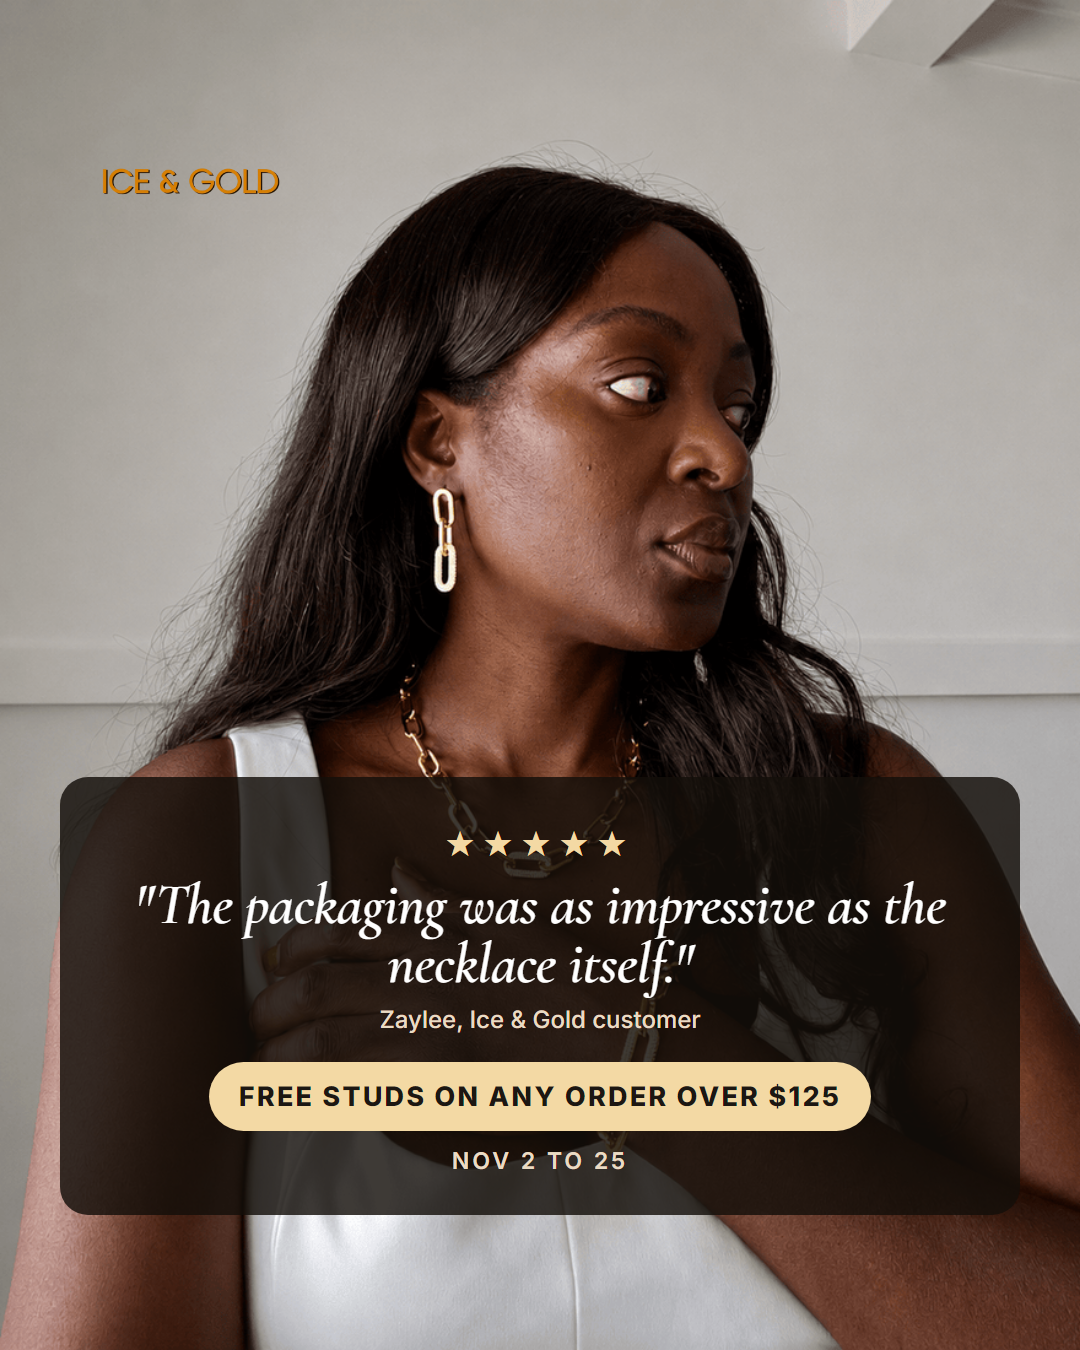
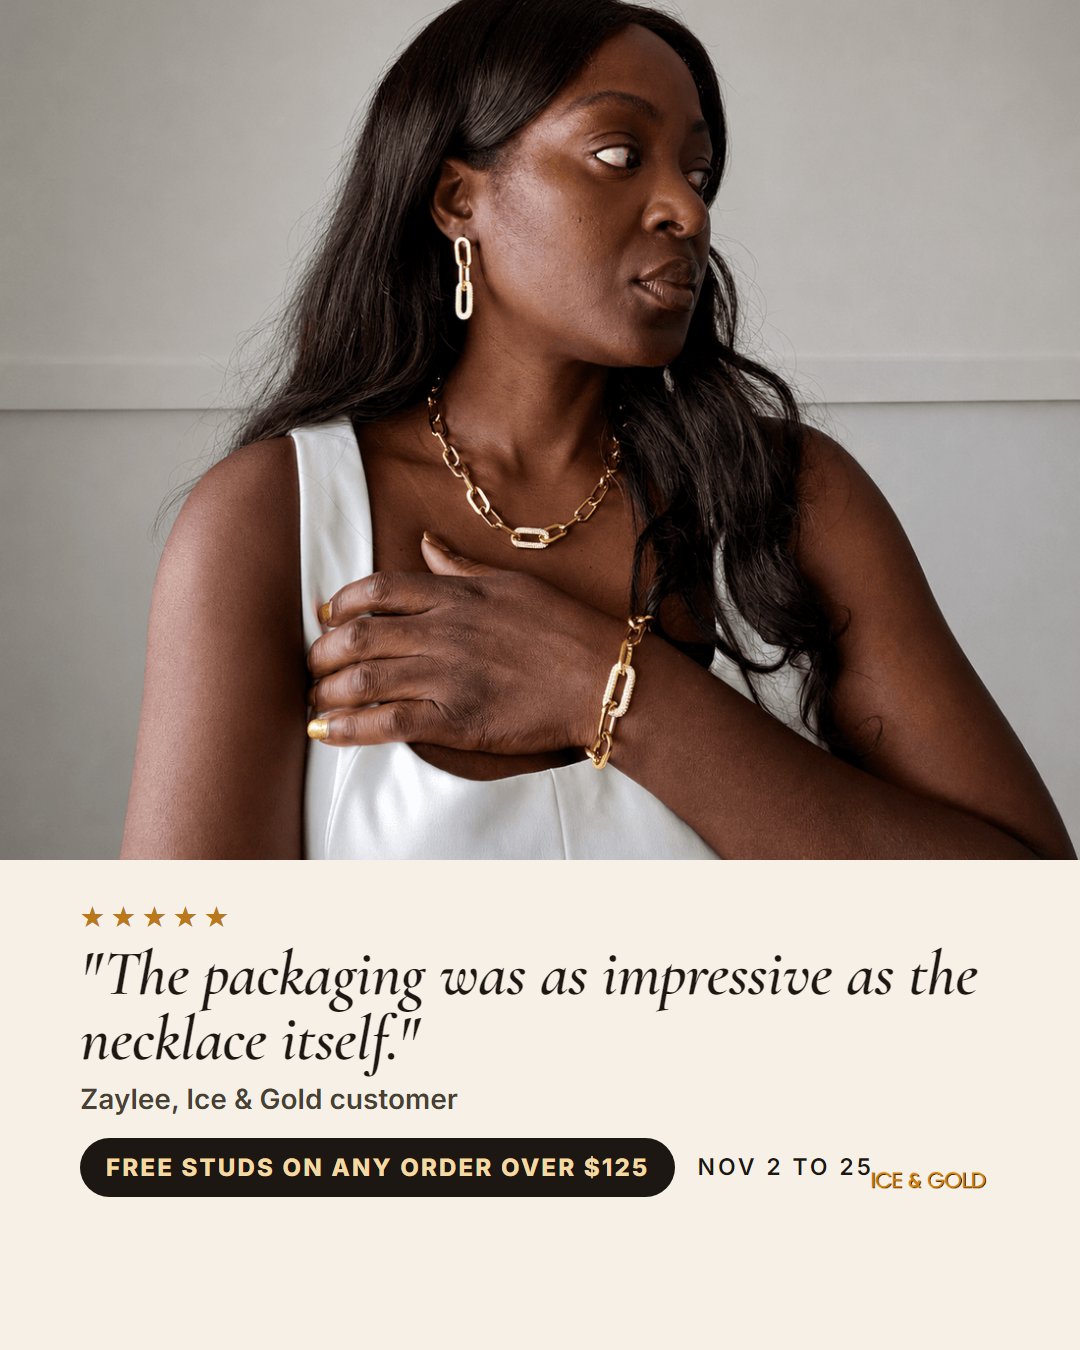
Ice & Gold Early Bird: words below the photo on 5 ads so no jewelry is covered; batch approved

diff --git a/docs/bfcm-ice-and-gold/ads/eb-07.html b/docs/bfcm-ice-and-gold/ads/eb-07.html
@@ -20,4 +20,4 @@ h1{font-family:'Cormorant Garamond',Georgia,serif;font-weight:600;line-height:1.
 .center{position:absolute;left:80px;right:80px;text-align:center}
 .prod{position:absolute;left:50%;transform:translateX(-50%);mix-blend-mode:multiply}
 .price{font-size:32px;font-weight:600;margin-top:14px;color:#4A3F33}
-</style></head><body style="--bg:#F6F0E6"><img class="bleed" src="assets/gold-link-set-3.png" style="object-position:50% 30%"><div class="band"><div style="font-size:36px;letter-spacing:8px;color:#F3D9A4">&#9733;&#9733;&#9733;&#9733;&#9733;</div><h1 style="font-size:58px;font-style:italic;margin-top:10px">"The packaging was as impressive as the necklace itself."</h1><div class="sub" style="font-size:24px">Zaylee, Ice &amp; Gold customer</div><div class="pill light">Free studs on any order over $125</div><div class="date" style="color:#EADBC4">Nov 2 to 25</div></div><img class="logo l" src="assets/logo.png"></body></html>
+</style></head><body style="--bg:#F6F0E6"><img src="assets/gold-link-set-3.png" style="position:absolute;top:0;left:0;width:1080px;height:860px;object-fit:cover;object-position:50% 70%"><div style="position:absolute;top:860px;left:0;right:0;bottom:0;background:#F6F0E6"></div><div style="position:absolute;top:895px;left:80px;right:80px"><div style="font-size:30px;letter-spacing:6px;color:#B9791A;margin-bottom:6px">&#9733;&#9733;&#9733;&#9733;&#9733;</div><h1 style="font-size:64px"><i>"The packaging was as impressive as the necklace itself."</i></h1><div class="price" style="font-size:28px;margin-top:10px">Zaylee, Ice &amp; Gold customer</div><div style="margin-top:22px;display:flex;align-items:center;gap:22px"><div class="pill" style="font-size:24px;padding:15px 26px">Free studs on any order over $125</div><div class="date" style="margin:0">Nov 2 to 25</div></div></div><img src="assets/logo.png" style="position:absolute;right:80px;bottom:150px;height:40px"></body></html>

diff --git a/docs/bfcm-ice-and-gold/ads/eb-08.html b/docs/bfcm-ice-and-gold/ads/eb-08.html
@@ -20,4 +20,4 @@ h1{font-family:'Cormorant Garamond',Georgia,serif;font-weight:600;line-height:1.
 .center{position:absolute;left:80px;right:80px;text-align:center}
 .prod{position:absolute;left:50%;transform:translateX(-50%);mix-blend-mode:multiply}
 .price{font-size:32px;font-weight:600;margin-top:14px;color:#4A3F33}
-</style></head><body style="--bg:#141210"><img class="bleed" src="assets/12mm-diamond-clasps-gold-cuban-set-3.jpg" style="object-position:50% 50%"><div class="band"><h1>His chain is on your list.</h1><div class="sub">12mm Diamond Clasps Gold Cuban Set, $249.<br>The free studs are for you.</div><div class="pill light">Free studs on any order over $125</div><div class="date" style="color:#EADBC4">Nov 2 to 25</div></div><img class="logo l" src="assets/logo.png"></body></html>
+</style></head><body style="--bg:#F6F0E6"><img src="assets/12mm-diamond-clasps-gold-cuban-set-3.jpg" style="position:absolute;top:0;left:0;width:1080px;height:860px;object-fit:cover;object-position:50% 55%"><div style="position:absolute;top:860px;left:0;right:0;bottom:0;background:#F6F0E6"></div><div style="position:absolute;top:895px;left:80px;right:80px"><h1 style="font-size:64px">His chain is on your list.</h1><div class="price" style="font-size:28px;margin-top:10px">12mm Diamond Clasps Gold Cuban Set, $249. The free studs are for you.</div><div style="margin-top:22px;display:flex;align-items:center;gap:22px"><div class="pill" style="font-size:24px;padding:15px 26px">Free studs on any order over $125</div><div class="date" style="margin:0">Nov 2 to 25</div></div></div><img src="assets/logo.png" style="position:absolute;right:80px;bottom:150px;height:40px"></body></html>

diff --git a/docs/bfcm-ice-and-gold/ads/eb-03.html b/docs/bfcm-ice-and-gold/ads/eb-03.html
@@ -20,4 +20,4 @@ h1{font-family:'Cormorant Garamond',Georgia,serif;font-weight:600;line-height:1.
 .center{position:absolute;left:80px;right:80px;text-align:center}
 .prod{position:absolute;left:50%;transform:translateX(-50%);mix-blend-mode:multiply}
 .price{font-size:32px;font-weight:600;margin-top:14px;color:#4A3F33}
-</style></head><body style="--bg:#F6F0E6"><img class="bleed" src="assets/spiral-earring-and-necklace-set-10.png" style="object-position:50% 25%"><div class="band"><h1>This set comes with<br>free studs.</h1><div class="sub">Spiral Earring and Necklace Set, $149.<br>Any order over $125 gets a free pair, Nov 2 to 25.</div></div><img class="logo l" src="assets/logo.png"></body></html>
+</style></head><body style="--bg:#F6F0E6"><img src="assets/spiral-earring-and-necklace-set-10.png" style="position:absolute;top:0;left:0;width:1080px;height:860px;object-fit:cover;object-position:50% 75%"><div style="position:absolute;top:860px;left:0;right:0;bottom:0;background:#F6F0E6"></div><div style="position:absolute;top:895px;left:80px;right:80px"><h1 style="font-size:64px">This set comes with free studs.</h1><div class="price" style="font-size:28px;margin-top:10px">Spiral Earring and Necklace Set, $149.</div><div style="margin-top:22px;display:flex;align-items:center;gap:22px"><div class="pill" style="font-size:24px;padding:15px 26px">Free studs on any order over $125</div><div class="date" style="margin:0">Nov 2 to 25</div></div></div><img src="assets/logo.png" style="position:absolute;right:80px;bottom:150px;height:40px"></body></html>

diff --git a/docs/bfcm-ice-and-gold/ads/eb-01.html b/docs/bfcm-ice-and-gold/ads/eb-01.html
@@ -20,4 +20,4 @@ h1{font-family:'Cormorant Garamond',Georgia,serif;font-weight:600;line-height:1.
 .center{position:absolute;left:80px;right:80px;text-align:center}
 .prod{position:absolute;left:50%;transform:translateX(-50%);mix-blend-mode:multiply}
 .price{font-size:32px;font-weight:600;margin-top:14px;color:#4A3F33}
-</style></head><body style="--bg:#F6F0E6"><img class="bleed" src="assets/gold-link-set-0.png" style="object-position:50% 30%"><div class="band"><h1>The Gold Link Set</h1><div class="sub">Necklace, bracelet and earrings. $249.</div><div class="pill light">Free studs on any order over $125</div><div class="date" style="color:#EADBC4">Nov 2 to 25</div></div><img class="logo l" src="assets/logo.png"></body></html>
+</style></head><body style="--bg:#F6F0E6"><img src="assets/gold-link-set-0.png" style="position:absolute;top:0;left:0;width:1080px;height:860px;object-fit:cover;object-position:50% 80%"><div style="position:absolute;top:860px;left:0;right:0;bottom:0;background:#F6F0E6"></div><div style="position:absolute;top:895px;left:80px;right:80px"><h1 style="font-size:64px">The Gold Link Set</h1><div class="price" style="font-size:28px;margin-top:10px">Necklace, bracelet and earrings. $249.</div><div style="margin-top:22px;display:flex;align-items:center;gap:22px"><div class="pill" style="font-size:24px;padding:15px 26px">Free studs on any order over $125</div><div class="date" style="margin:0">Nov 2 to 25</div></div></div><img src="assets/logo.png" style="position:absolute;right:80px;bottom:150px;height:40px"></body></html>

diff --git a/docs/bfcm-ice-and-gold/ads/eb-04.html b/docs/bfcm-ice-and-gold/ads/eb-04.html
@@ -20,4 +20,4 @@ h1{font-family:'Cormorant Garamond',Georgia,serif;font-weight:600;line-height:1.
 .center{position:absolute;left:80px;right:80px;text-align:center}
 .prod{position:absolute;left:50%;transform:translateX(-50%);mix-blend-mode:multiply}
 .price{font-size:32px;font-weight:600;margin-top:14px;color:#4A3F33}
-</style></head><body style="--bg:#F6F0E6"><img class="bleed" src="assets/water-drop-earring-and-necklace-set-0.png" style="object-position:50% 20%"><div class="band"><h1>The Water Drop Set. $129.</h1><div class="sub">That is over $125, so the studs are free.</div><div class="pill light">Free studs, Nov 2 to 25</div></div><img class="logo l" src="assets/logo.png"></body></html>
+</style></head><body style="--bg:#F6F0E6"><img src="assets/water-drop-earring-and-necklace-set-0.png" style="position:absolute;top:0;left:0;width:1080px;height:860px;object-fit:cover;object-position:50% 85%"><div style="position:absolute;top:860px;left:0;right:0;bottom:0;background:#F6F0E6"></div><div style="position:absolute;top:895px;left:80px;right:80px"><h1 style="font-size:64px">The Water Drop Set. $129.</h1><div class="price" style="font-size:28px;margin-top:10px">That is over $125, so the studs are free.</div><div style="margin-top:22px;display:flex;align-items:center;gap:22px"><div class="pill" style="font-size:24px;padding:15px 26px">Free studs on any order over $125</div><div class="date" style="margin:0">Nov 2 to 25</div></div></div><img src="assets/logo.png" style="position:absolute;right:80px;bottom:150px;height:40px"></body></html>

diff --git a/docs/bfcm-ice-and-gold/ads/build.py b/docs/bfcm-ice-and-gold/ads/build.py
@@ -47,14 +47,22 @@ def page(name, body, bg='#F6F0E6', logo=True, logo_cls=''):
         f.write(html)
 
 
+
+def split(img, pos, head, sub='', pill=True, extra=''):
+    """Photo on top (whole width, 0 to 860), words on cream below so no jewelry is covered."""
+    return (f'<img src="assets/{img}" style="position:absolute;top:0;left:0;width:1080px;height:860px;object-fit:cover;object-position:{pos}">'
+            '<div style="position:absolute;top:860px;left:0;right:0;bottom:0;background:#F6F0E6"></div>'
+            f'<div style="position:absolute;top:895px;left:80px;right:80px">{extra}<h1 style="font-size:64px">{head}</h1>'
+            + (f'<div class="price" style="font-size:28px;margin-top:10px">{sub}</div>' if sub else '')
+            + (f'<div style="margin-top:22px;display:flex;align-items:center;gap:22px"><div class="pill" style="font-size:24px;padding:15px 26px">{OFFER}</div>'
+               f'<div class="date" style="margin:0">{DATES}</div></div>' if pill else '')
+            + '</div><img src="assets/logo.png" style="position:absolute;right:80px;bottom:150px;height:40px">')
+
+
 ADS = {}
 
 # 1. The Gold Link Set leads, studs second (offer-first, early-bird variant: product leads)
-ADS['eb-01'] = dict(logo_cls='l', body=
-    '<img class="bleed" src="assets/gold-link-set-0.png" style="object-position:50% 30%">'
-    '<div class="band"><h1>The Gold Link Set</h1>'
-    '<div class="sub">Necklace, bracelet and earrings. $249.</div>'
-    f'<div class="pill light">{OFFER}</div><div class="date" style="color:#EADBC4">{DATES}</div></div>')
+ADS['eb-01'] = dict(logo=False, body=split('gold-link-set-0.png', '50% 80%', 'The Gold Link Set', 'Necklace, bracelet and earrings. $249.'))
 
 # 2. Lariat Heart Set, product on cream
 ADS['eb-02'] = dict(body=
@@ -64,17 +72,10 @@ ADS['eb-02'] = dict(body=
     f'<div class="center" style="bottom:150px"><div class="pill">{OFFER}</div><div class="date">{DATES}</div></div>')
 
 # 3. Spiral Set clears the line on its own
-ADS['eb-03'] = dict(logo_cls='l', body=
-    '<img class="bleed" src="assets/spiral-earring-and-necklace-set-10.png" style="object-position:50% 25%">'
-    '<div class="band"><h1>This set comes with<br>free studs.</h1>'
-    '<div class="sub">Spiral Earring and Necklace Set, $149.<br>Any order over $125 gets a free pair, Nov 2 to 25.</div></div>')
+ADS['eb-03'] = dict(logo=False, body=split('spiral-earring-and-necklace-set-10.png', '50% 75%', 'This set comes with free studs.', 'Spiral Earring and Necklace Set, $149.'))
 
 # 4. Water Drop Set: just over the line
-ADS['eb-04'] = dict(logo_cls='l', body=
-    '<img class="bleed" src="assets/water-drop-earring-and-necklace-set-0.png" style="object-position:50% 20%">'
-    '<div class="band"><h1>The Water Drop Set. $129.</h1>'
-    '<div class="sub">That is over $125, so the studs are free.</div>'
-    f'<div class="pill light">Free studs, {DATES}</div></div>')
+ADS['eb-04'] = dict(logo=False, body=split('water-drop-earring-and-necklace-set-0.png', '50% 85%', 'The Water Drop Set. $129.', 'That is over $125, so the studs are free.'))
 
 # 5. Two gifts on the list, studs for you
 ADS['eb-05'] = dict(body=
@@ -95,19 +96,10 @@ ADS['eb-06'] = dict(logo=False, body=
     '<img src="assets/logo.png" style="position:absolute;right:80px;bottom:190px;height:48px">')
 
 # 7. Review over product (real review, iceandgold.com)
-ADS['eb-07'] = dict(logo_cls='l', body=
-    '<img class="bleed" src="assets/gold-link-set-3.png" style="object-position:50% 30%">'
-    '<div class="band"><div style="font-size:36px;letter-spacing:8px;color:#F3D9A4">&#9733;&#9733;&#9733;&#9733;&#9733;</div>'
-    '<h1 style="font-size:58px;font-style:italic;margin-top:10px">"The packaging was as impressive as the necklace itself."</h1>'
-    '<div class="sub" style="font-size:24px">Zaylee, Ice &amp; Gold customer</div>'
-    f'<div class="pill light">{OFFER}</div><div class="date" style="color:#EADBC4">{DATES}</div></div>')
+ADS['eb-07'] = dict(logo=False, body=split('gold-link-set-3.png', '50% 70%', '<i>"The packaging was as impressive as the necklace itself."</i>', 'Zaylee, Ice &amp; Gold customer', extra='<div style="font-size:30px;letter-spacing:6px;color:#B9791A;margin-bottom:6px">&#9733;&#9733;&#9733;&#9733;&#9733;</div>'))
 
 # 8. His chain is on your list
-ADS['eb-08'] = dict(logo_cls='l', bg='#141210', body=
-    '<img class="bleed" src="assets/12mm-diamond-clasps-gold-cuban-set-3.jpg" style="object-position:50% 50%">'
-    '<div class="band"><h1>His chain is on your list.</h1>'
-    '<div class="sub">12mm Diamond Clasps Gold Cuban Set, $249.<br>The free studs are for you.</div>'
-    f'<div class="pill light">{OFFER}</div><div class="date" style="color:#EADBC4">{DATES}</div></div>')
+ADS['eb-08'] = dict(logo=False, body=split('12mm-diamond-clasps-gold-cuban-set-3.jpg', '50% 55%', 'His chain is on your list.', '12mm Diamond Clasps Gold Cuban Set, $249. The free studs are for you.'))
 
 # 9. Native phone: the gift list in Notes
 NOTE = ('<div style="position:absolute;top:170px;left:130px;right:130px;background:#fff;border-radius:40px;'
